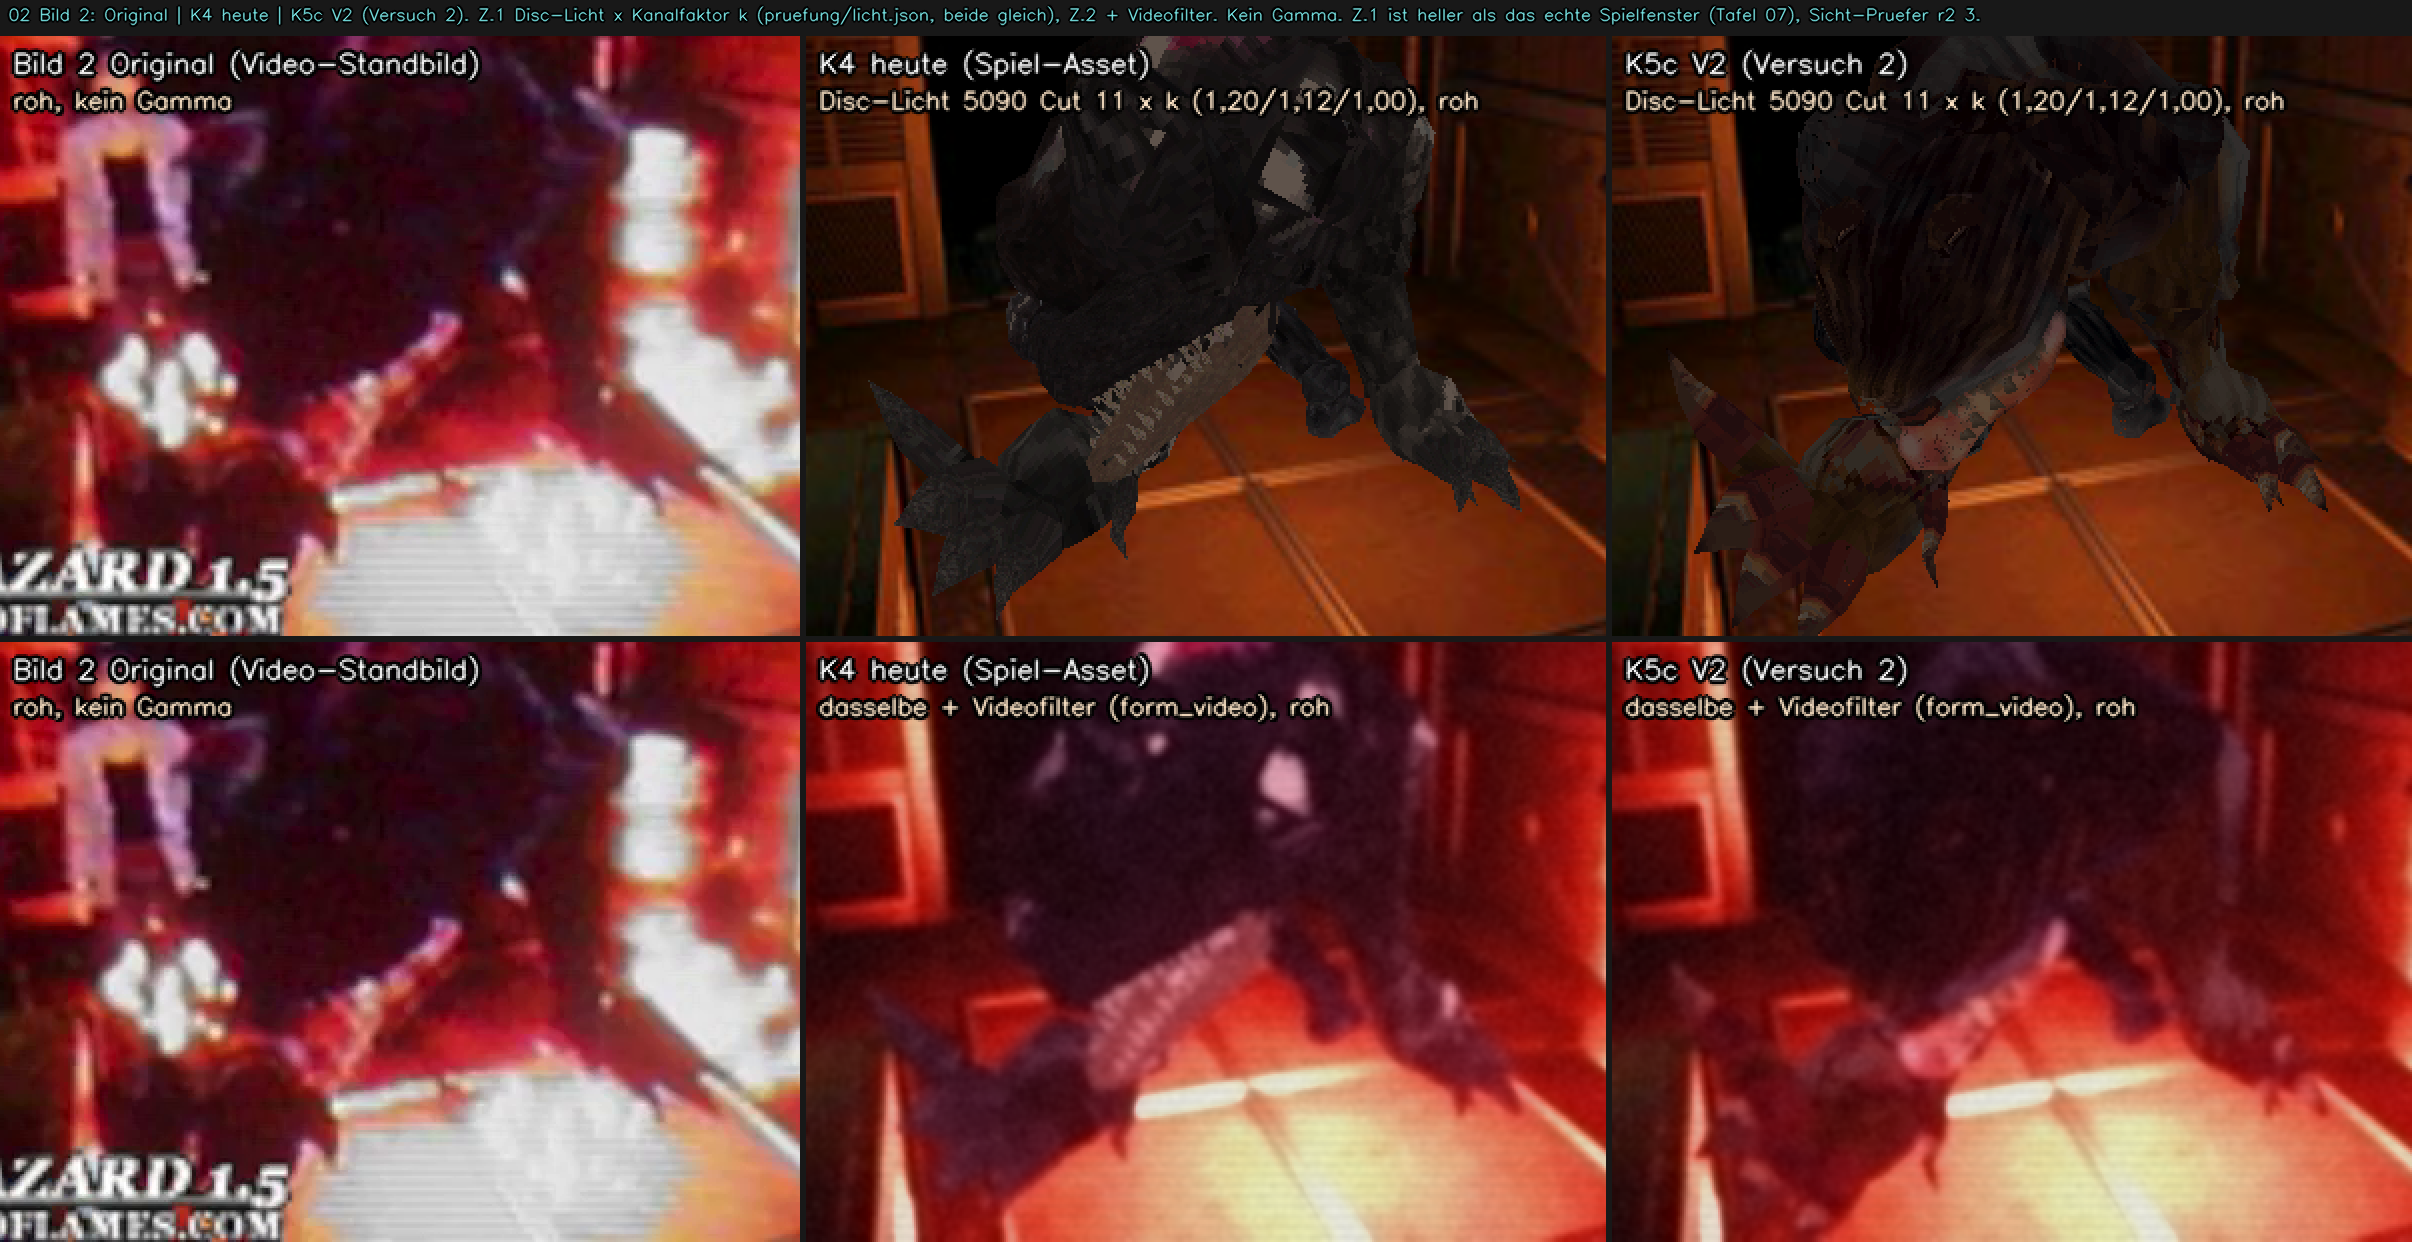
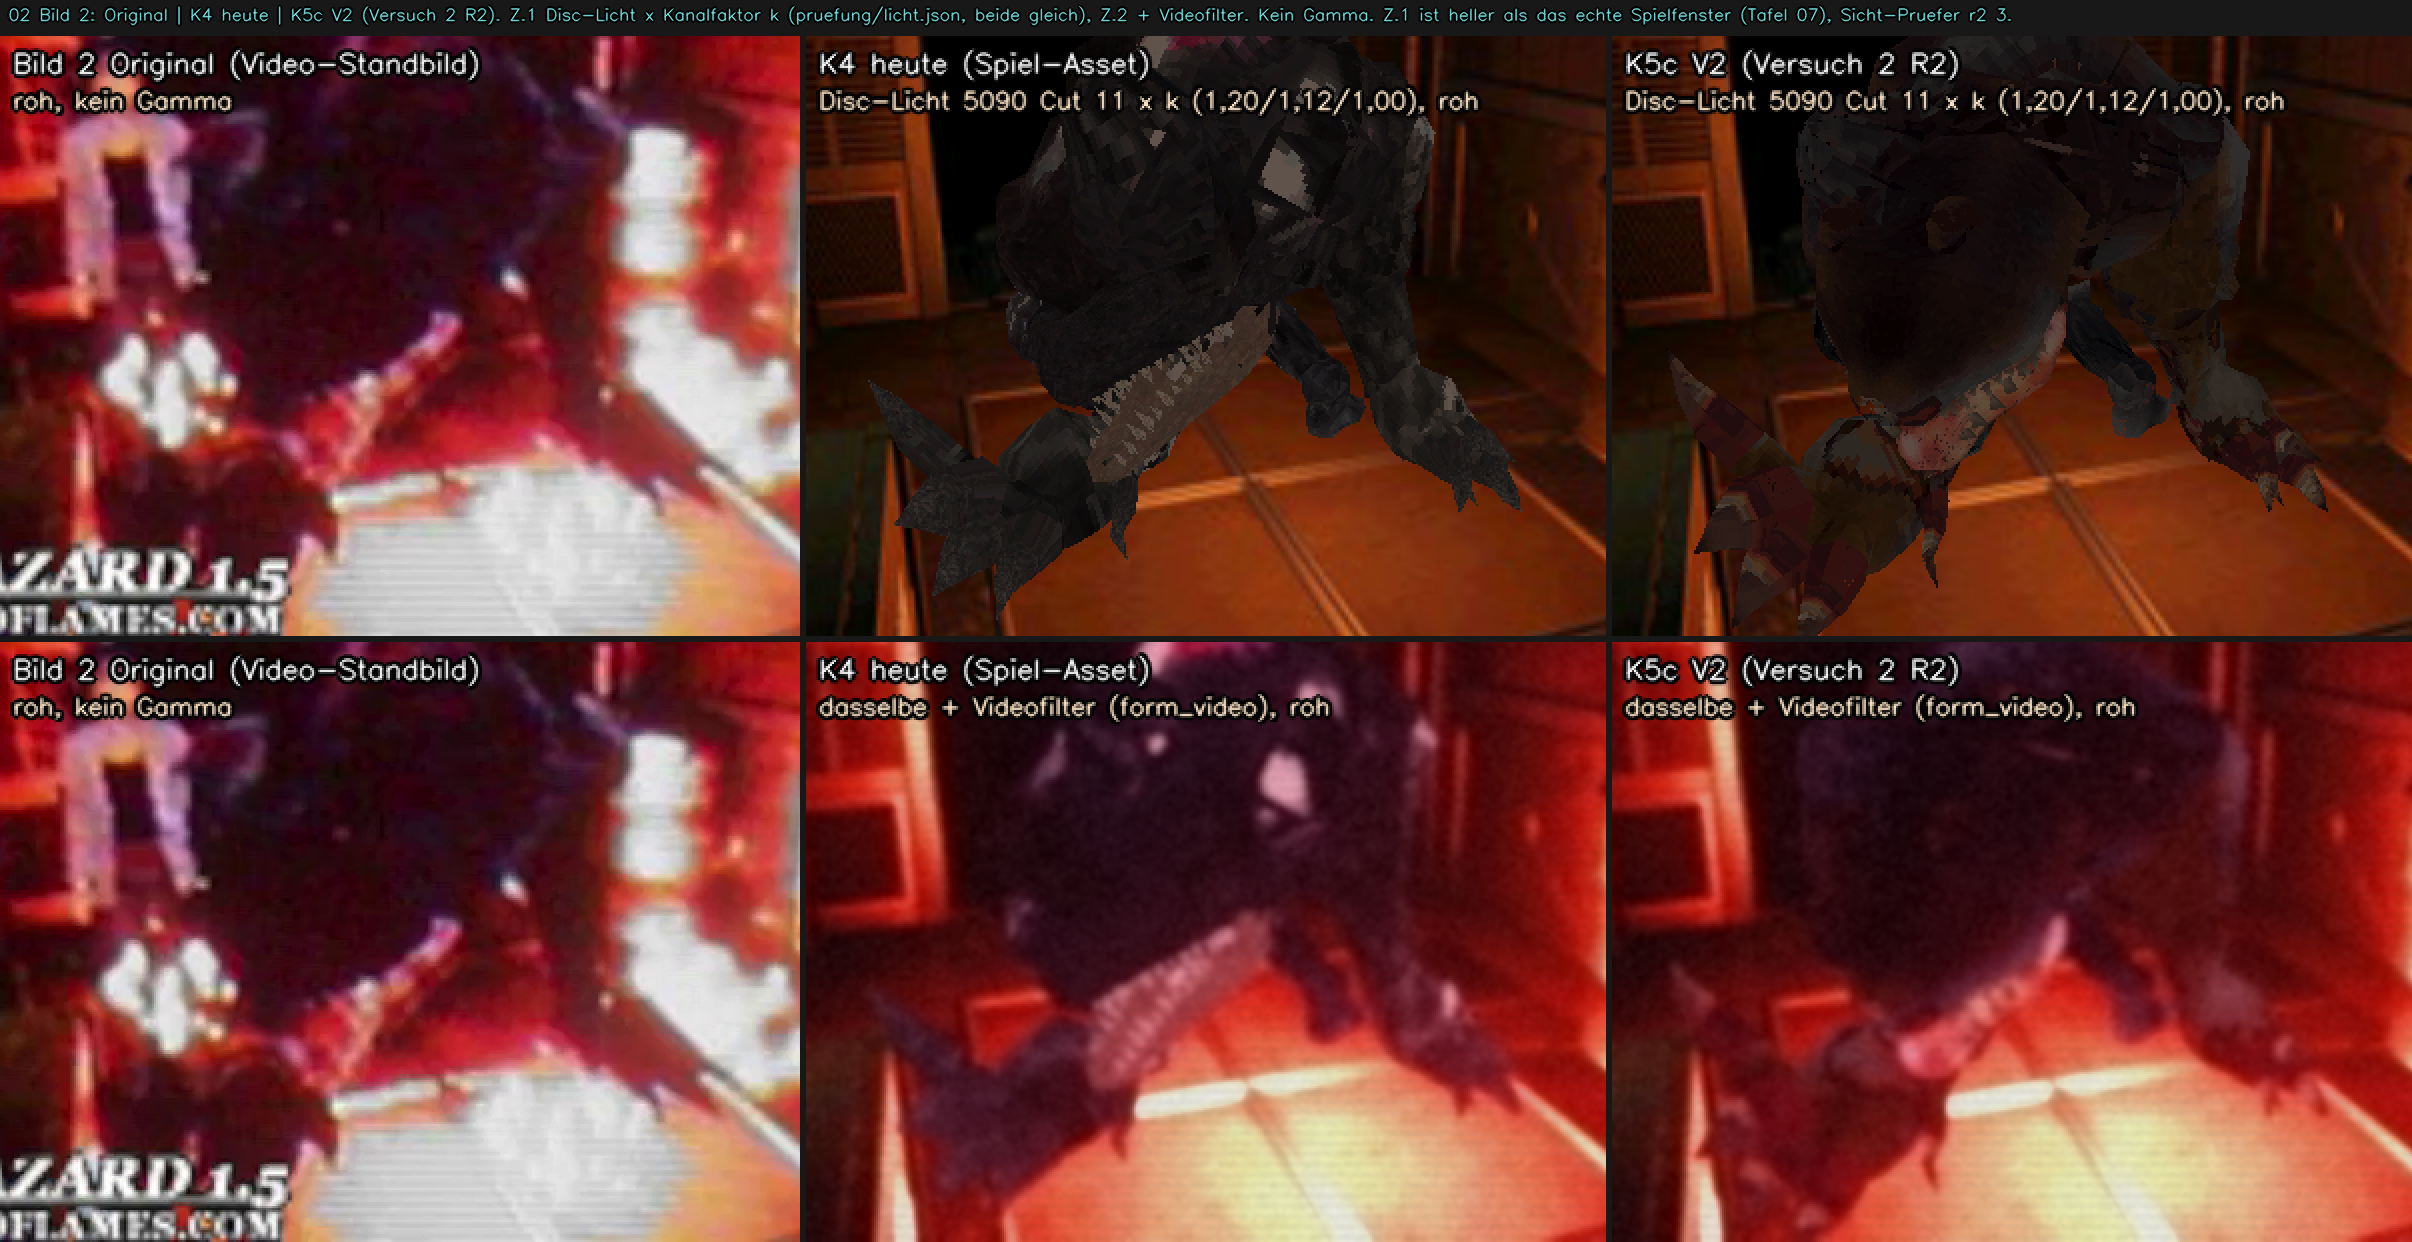
docs(form-farbe): Versuch 2 Runde 2 - Tafeln 01-08, Spiellauf 10/10, Sicht-Mass der Laengsstreifung
- Tafeln 01-06 und 08 aus farbe/K5c_farbe_v2 (kf_tafeln.py, KF_NAME 'K5c V2 (Versuch 2 R2)', roh, kein
  Gamma, gleiche Behandlung wie bisher); 08 jetzt mit Ausschnitt je Modell auf derselben Anatomie.
- 07: kf_spiel.sh --mit-heute, eigene exe-Kopie, gdigrab mit frei gestelltem Fenster (SetWindowPos),
  10/10 rc=0 (farbe/spiel_lauf.log, Einzelbilder farbe/spiel/).
- farbe/sicht_mass_v2r2.txt (generator/kf_sicht_mass.py): dunkle duenne Linien im Render, Kopf
  3/4 vorn / Seite / unten vorn: G4 7,9 / 5,5 / 18,9 %, K5c heute 10,2 / 9,0 / 11,3, Runde 1
  14,9 / 18,0 / 15,3, Runde 2 9,7 / 7,5 / 12,0.

diff --git a/analysis/befunde_runde41/form/varianten/K5/generator/kf_sicht_mass.py b/analysis/befunde_runde41/form/varianten/K5/generator/kf_sicht_mass.py
@@ -1,0 +1,47 @@
+"""Sicht-Mass P2 (wie Sicht-Pruefer v2 r1 Abschnitt 2): dunkle duenne Linien im Render (Black-Top-Hat 5x5 > 6 L* auf den Figurpixeln, Erosion 3x3),
+Anteil %, davon in elongierten Komponenten (>= 12 px, Elongation >= 3) %, Zahl der elongierten Komponenten. Kopf: Mesh 21-23 Clip 1, 300 px,
+3 Winkel wie Tafel 06; G4: Mesh 26 Clip 0."""
+import json
+import math
+import os
+import sys
+import numpy as np, cv2
+G = os.path.dirname(os.path.abspath(__file__))
+sys.path.insert(0, G)
+import kf_tafeln as KT
+import fl, render as R
+
+def linien(img, msk):
+    L = np.zeros(msk.shape, np.float32)
+    L[msk] = KT.PL.lab(img[msk].astype(np.float32))[:, 0]
+    v = cv2.erode(msk.astype(np.uint8), np.ones((3, 3), np.uint8)).astype(bool)
+    bh = cv2.morphologyEx(L, cv2.MORPH_BLACKHAT, np.ones((5, 5), np.uint8))
+    m = (bh > 6) & v
+    n, lb, st, _ = cv2.connectedComponentsWithStats(m.astype(np.uint8), connectivity=8)
+    el_px, el_n = 0, 0
+    for i in range(1, n):
+        if st[i, 4] < 12:
+            continue
+        ys, xs = np.nonzero(lb == i)
+        ev = np.linalg.eigvalsh(np.cov(np.stack([xs, ys]).astype(float)))
+        if math.sqrt(ev[1] / max(ev[0], 0.05)) >= 3:
+            el_px += st[i, 4]; el_n += 1
+    return round(100 * m.sum() / v.sum(), 1), round(100 * el_px / v.sum(), 1), el_n
+
+out = {}
+for p in sys.argv[1:]:
+    if p == 'G4':
+        mo, c, teile = KT.re2_mo(0x34), 0, (26,)
+    else:
+        mo, c, teile = fl.lade_var(p), 1, (21, 22, 23)
+    r = []
+    for wt, az, el in (('3/4 vorn', 60, 10), ('Seite', 0, 5), ('unten vorn', 80, -30)):
+        img, msk = KT.blick_teile(mo, R.kf(mo, c), az, el, 300, teile)
+        r.append(linien(img, msk))
+    k = []
+    if p != 'G4':
+        for _wt, az, el in R.WINKEL:
+            img, msk = R.blick(mo, R.kf(mo, 2), az, el, 380, None)
+            k.append(linien(img, msk))
+    out[os.path.basename(p)] = dict(kopf=r, koerper=k)
+    print(os.path.basename(p), 'Kopf', r, 'Koerper', k, flush=True)
